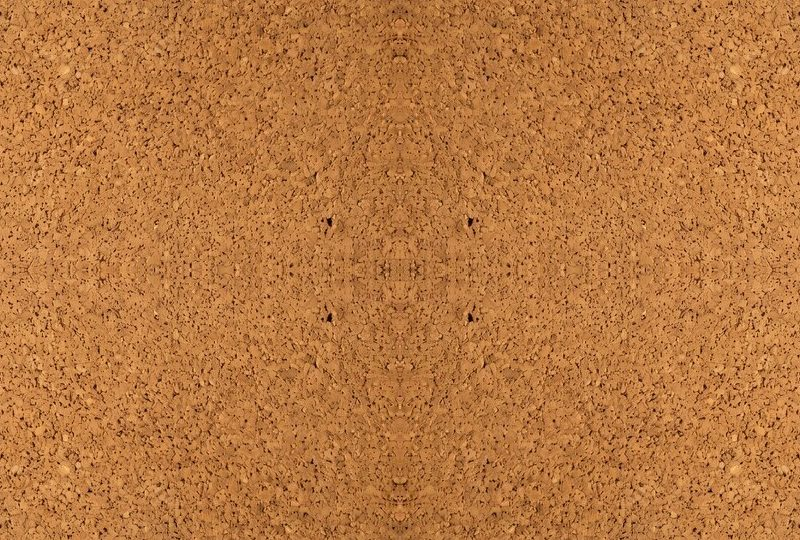
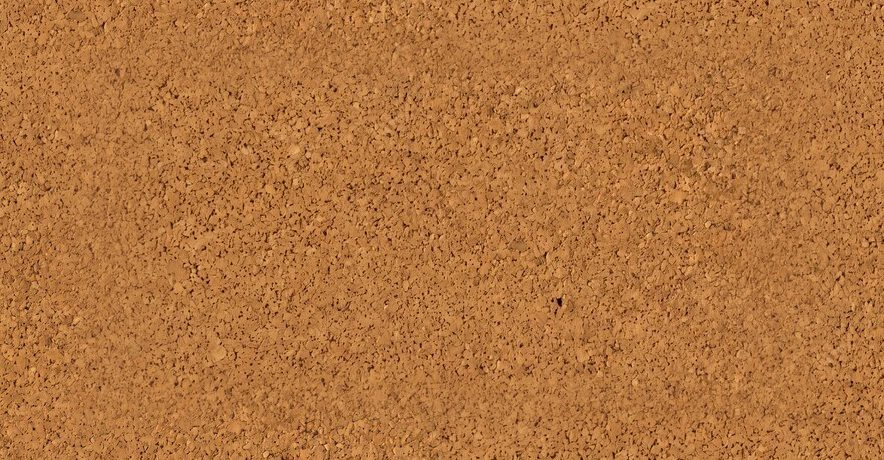
Reviews: seamless cork texture
Claude-Session: https://claude.ai/code/session_01BQu8UErBvyD58BfjDN7kLt

diff --git a/reviews.html b/reviews.html
@@ -41,7 +41,7 @@
   .board-scroll { overflow-x:auto; padding-bottom:.5rem; -webkit-overflow-scrolling:touch; }
   .board { position:relative; width:100%; min-width:980px; height:700px; border-radius:14px; overflow:hidden;
     border:22px solid #b07a3c; border-image:url(./reviews/board.jpg) 31 33 31 33 / 22px stretch;
-    background:url(./reviews/cork.jpg) 0 0/420px auto repeat; box-shadow:0 40px 90px rgba(0,0,0,.6), inset 0 6px 18px rgba(0,0,0,.45); user-select:none; }
+    background:url(./reviews/cork.jpg) 0 0/640px auto repeat; box-shadow:0 40px 90px rgba(0,0,0,.6), inset 0 6px 18px rgba(0,0,0,.45); user-select:none; }
   .board::after { content:''; position:absolute; inset:0; pointer-events:none; box-shadow:inset 0 8px 20px rgba(0,0,0,.35); }
   .stage { position:absolute; left:0; top:0; width:1600px; height:1200px; transform-origin:0 0; }
   .more { text-align:center; color:var(--muted); font-size:.8rem; margin-top:.6rem; }
